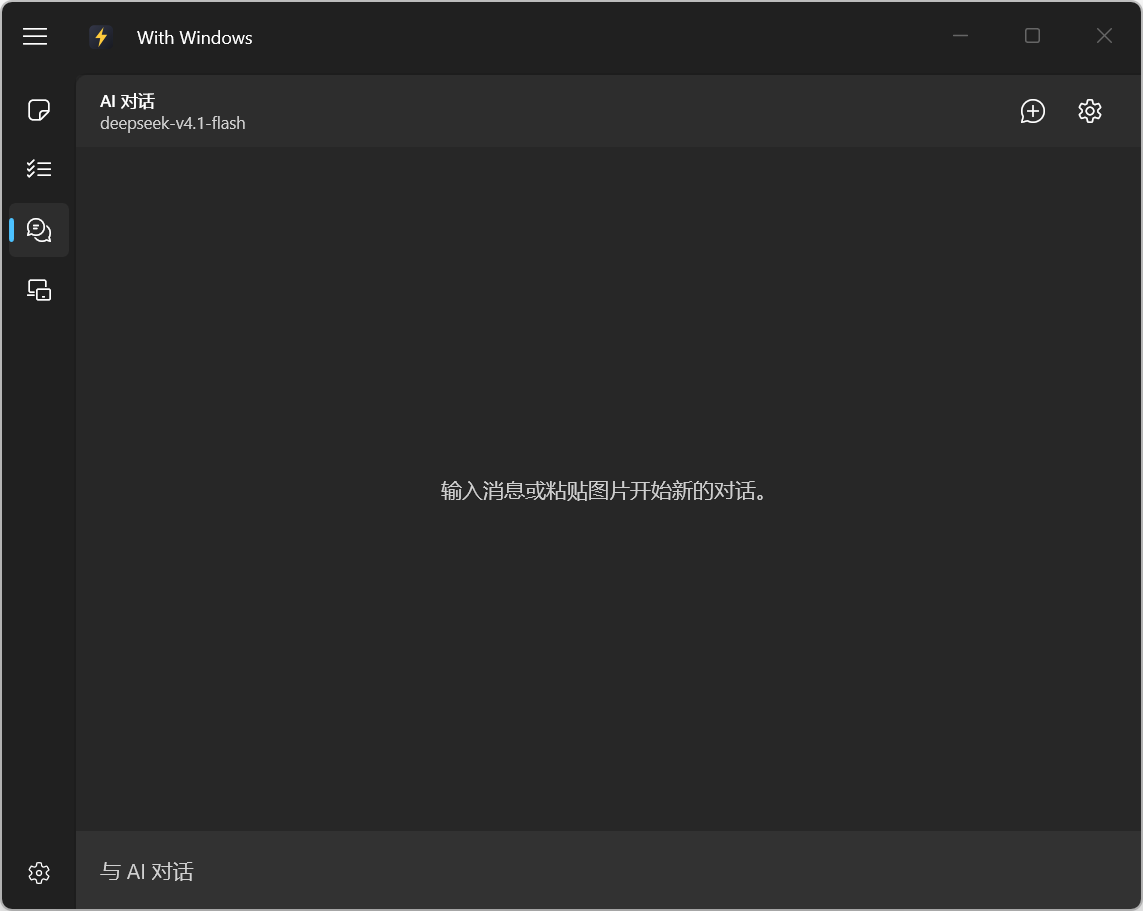
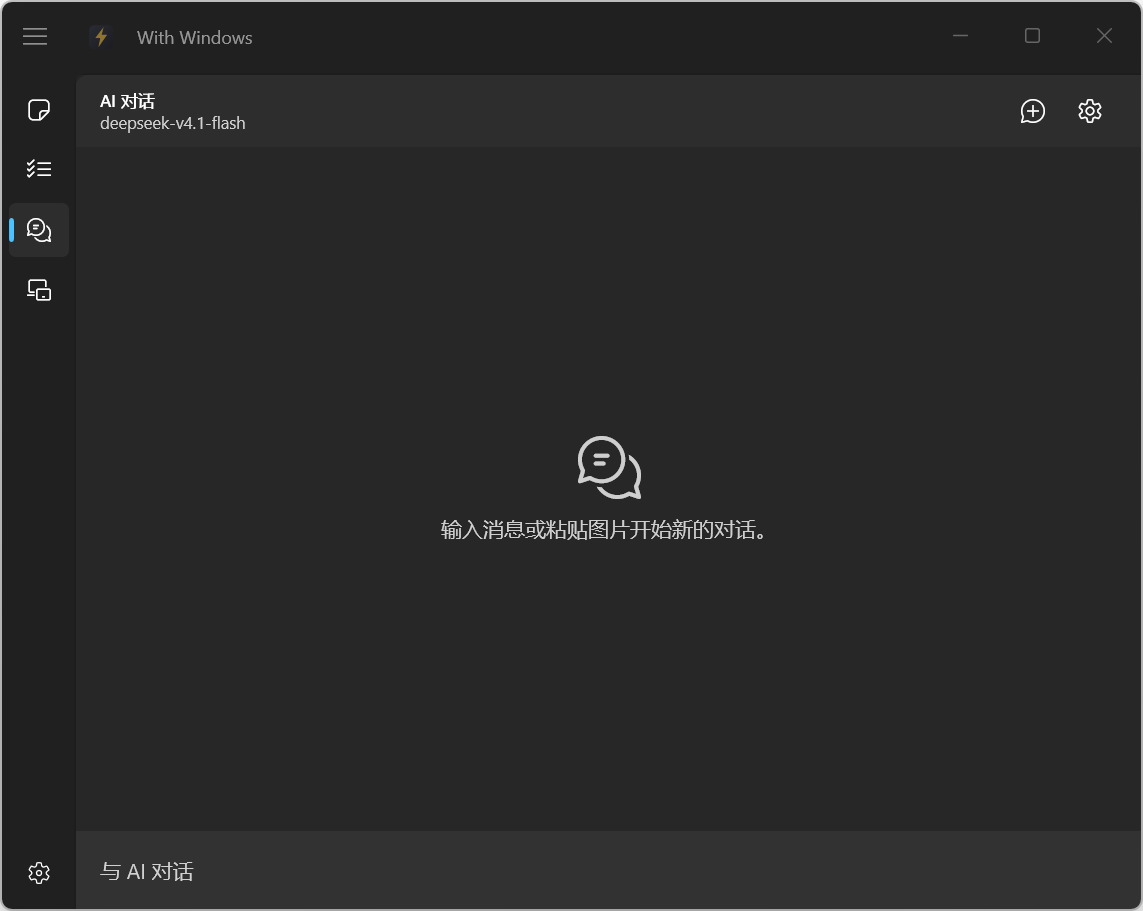
feat(待办): 完善提醒编辑与空状态界面

Changed region(s): [[0.3675, 0.461, 0.6737, 0.6147], [0.1225, 0.0307, 0.2143, 0.0615]]

diff --git a/src/WithWindows.App/Views/ChatPage.xaml b/src/WithWindows.App/Views/ChatPage.xaml
@@ -199,15 +199,25 @@
                 </ListView.ItemContainerStyle>
             </ListView>
 
-            <TextBlock
-                x:Name="ChatEmptyState"
+            <StackPanel
+                x:Name="ChatEmptyStatePanel"
                 Margin="32"
+                MaxWidth="360"
                 HorizontalAlignment="Center"
                 VerticalAlignment="Center"
-                AutomationProperties.AutomationId="ChatEmptyState"
-                Foreground="{ThemeResource TextFillColorSecondaryBrush}"
-                TextAlignment="Center"
-                TextWrapping="Wrap" />
+                Spacing="10">
+                <FontIcon
+                    HorizontalAlignment="Center"
+                    FontSize="42"
+                    Foreground="{ThemeResource TextFillColorSecondaryBrush}"
+                    Glyph="&#xE8F2;" />
+                <TextBlock
+                    x:Name="ChatEmptyState"
+                    AutomationProperties.AutomationId="ChatEmptyState"
+                    Foreground="{ThemeResource TextFillColorSecondaryBrush}"
+                    TextAlignment="Center"
+                    TextWrapping="Wrap" />
+            </StackPanel>
 
             <InfoBar
                 x:Name="ChatErrorBar"

diff --git a/src/WithWindows.App/Views/TodoPage.xaml b/src/WithWindows.App/Views/TodoPage.xaml
@@ -123,12 +123,11 @@
                 Background="Transparent"
                 BorderThickness="0"
                 FontSize="14"
-                FocusVisualMargin="-4"
                 PlaceholderText="添加待办"
                 PreviewKeyDown="OnNewInputKeyDown"
                 TextCompositionEnded="OnTextCompositionEnded"
                 TextCompositionStarted="OnTextCompositionStarted"
-                UseSystemFocusVisuals="True">
+                UseSystemFocusVisuals="False">
                 <TextBox.Resources>
                     <SolidColorBrush x:Key="TextControlBackground" Color="Transparent" />
                     <SolidColorBrush x:Key="TextControlBackgroundPointerOver" Color="Transparent" />

diff --git a/src/WithWindows.App/Controls/TodoReminderDialog.cs b/src/WithWindows.App/Controls/TodoReminderDialog.cs
@@ -23,56 +23,51 @@ public static class TodoReminderDialog
             ?? RoundUpToFiveMinutes(DateTimeOffset.Now.AddHours(1));
         bool hasExisting = item.ReminderAt is not null;
 
-        var enabled = new CheckBox
-        {
-            Content = "启用提醒",
-            IsChecked = hasExisting,
-        };
-        AutomationProperties.SetAutomationId(enabled, "TodoReminderEnabled");
-        AutomationProperties.SetName(enabled, "启用提醒");
-
         var datePicker = new CalendarDatePicker
         {
-            Header = "日期",
             Date = new DateTimeOffset(initial.Date),
-            IsEnabled = hasExisting,
+            Height = 40,
+            MinWidth = 0,
             HorizontalAlignment = HorizontalAlignment.Stretch,
+            VerticalAlignment = VerticalAlignment.Center,
         };
         AutomationProperties.SetAutomationId(datePicker, "TodoReminderDate");
         AutomationProperties.SetName(datePicker, "提醒日期");
 
         var timePicker = new TimePicker
         {
-            Header = "时间",
             ClockIdentifier = "24HourClock",
+            Height = 40,
+            MinWidth = 0,
             SelectedTime = initial.TimeOfDay,
-            IsEnabled = hasExisting,
             HorizontalAlignment = HorizontalAlignment.Stretch,
+            VerticalAlignment = VerticalAlignment.Center,
         };
         AutomationProperties.SetAutomationId(timePicker, "TodoReminderTime");
         AutomationProperties.SetName(timePicker, "提醒时间");
+        // TimePicker 模板把内部 FlyoutButton 顶对齐，外层 Height 不会撑高可见内容。
+        // 用对称内边距把内容框实际撑到与 CalendarDatePicker 相同的 40 DIP。
+        timePicker.Resources["TimePickerHostPadding"] = new Thickness(0, 9, 0, 9);
 
-        enabled.Checked += (_, _) => SetPickersEnabled(isEnabled: true);
-        enabled.Unchecked += (_, _) => SetPickersEnabled(isEnabled: false);
-
-        void SetPickersEnabled(bool isEnabled)
-        {
-            if (datePicker is null || timePicker is null)
-                return;
-
-            datePicker.IsEnabled = isEnabled;
-            timePicker.IsEnabled = isEnabled;
-        }
+        var dateLabel = CreateFieldLabel("日期");
+        var timeLabel = CreateFieldLabel("时间");
 
         var pickerGrid = new Grid
         {
             ColumnSpacing = 12,
-            Margin = new Thickness(0, 8, 0, 0),
+            RowSpacing = 4,
         };
+        pickerGrid.RowDefinitions.Add(new RowDefinition { Height = GridLength.Auto });
+        pickerGrid.RowDefinitions.Add(new RowDefinition { Height = GridLength.Auto });
         pickerGrid.ColumnDefinitions.Add(new ColumnDefinition { Width = new GridLength(1, GridUnitType.Star) });
         pickerGrid.ColumnDefinitions.Add(new ColumnDefinition { Width = new GridLength(1, GridUnitType.Star) });
+        pickerGrid.Children.Add(dateLabel);
+        Grid.SetColumn(timeLabel, 1);
+        pickerGrid.Children.Add(timeLabel);
+        Grid.SetRow(datePicker, 1);
         pickerGrid.Children.Add(datePicker);
         Grid.SetColumn(timePicker, 1);
+        Grid.SetRow(timePicker, 1);
         pickerGrid.Children.Add(timePicker);
 
         var validation = new TextBlock
@@ -90,7 +85,6 @@ public static class TodoReminderDialog
             MinWidth = 420,
             Spacing = 4,
         };
-        content.Children.Add(enabled);
         content.Children.Add(pickerGrid);
 
         var contentScroll = new ScrollViewer
@@ -126,7 +120,7 @@ public static class TodoReminderDialog
         var dialog = new ContentDialog
         {
             XamlRoot = xamlRoot,
-            Title = "设置提醒",
+            Title = hasExisting ? "修改提醒" : "设置提醒",
             Content = contentLayout,
             PrimaryButtonText = "保存",
             SecondaryButtonText = hasExisting ? "移除提醒" : "",
@@ -137,12 +131,6 @@ public static class TodoReminderDialog
         TodoReminderChoice? choice = null;
         dialog.PrimaryButtonClick += (_, args) =>
         {
-            if (enabled.IsChecked != true)
-            {
-                choice = new TodoReminderChoice(Remove: true, At: null);
-                return;
-            }
-
             if (datePicker.Date is not { } date || timePicker.SelectedTime is not { } time)
             {
                 args.Cancel = true;
@@ -182,6 +170,13 @@ public static class TodoReminderDialog
             _ => null,
         };
     }
+
+    private static TextBlock CreateFieldLabel(string text) => new()
+    {
+        Text = text,
+        FontSize = 12,
+        Foreground = (Brush)Application.Current.Resources["TextFillColorSecondaryBrush"],
+    };
 
     private static DateTimeOffset RoundUpToFiveMinutes(DateTimeOffset value)
     {

diff --git a/src/WithWindows.App/Views/ChatPage.xaml.cs b/src/WithWindows.App/Views/ChatPage.xaml.cs
@@ -849,7 +849,7 @@ public sealed partial class ChatPage : Page
             return;
 
         bool empty = Messages.Count == 0;
-        ChatEmptyState.Visibility = empty ? Visibility.Visible : Visibility.Collapsed;
+        ChatEmptyStatePanel.Visibility = empty ? Visibility.Visible : Visibility.Collapsed;
         if (!empty)
             return;
 

diff --git a/docs/agents/ui-baseline.md b/docs/agents/ui-baseline.md
@@ -34,8 +34,11 @@ winapp ui screenshot -a WithWindows
 - 列表与摘要：`TodoList`、`TodoSummary`
 - 状态提示：`TodoReminderBar`、`TodoErrorBar`、`TodoEmptyState`
 - 行操作：`TodoComplete_*`、`TodoReminder_*`、`TodoDelete_*`
+- 提醒对话框：`TodoReminderDate`、`TodoReminderTime`、`TodoReminderValidation`
 
-待办输入栏位于页面底部且高度为 48 DIP。输入框保持透明背景和透明边框，键盘聚焦时显示系统焦点框；按 `Enter` 添加，不显示发送按钮。
+待办输入栏位于页面底部且高度为 48 DIP。输入框保持透明背景、透明边框且不显示焦点边框；按 `Enter` 添加，不显示发送按钮。
+
+提醒对话框直接显示日期与时间选择器，不使用“启用提醒”开关；已有提醒通过次级按钮移除，两个选择器高度均为 40 DIP。
 
 ## AI 对话
 
@@ -44,7 +47,7 @@ winapp ui screenshot -a WithWindows
 - 消息：`ChatMessageList`、`ChatEmptyState`、`ChatErrorBar`
 - 输入与附件：`ChatInput`、`ChatPendingAttachments`、`ChatRemoveAttachmentButton`
 
-输入栏使用主题填充色和透明边框，单行文字垂直居中。`Enter` 发送，`Shift+Enter` 换行，输入法组合期间不发送。
+空状态使用与待办页一致的 42 DIP 字体图标和说明文字。输入栏使用主题填充色和透明边框，单行文字垂直居中。`Enter` 发送，`Shift+Enter` 换行，输入法组合期间不发送。
 
 ## 投影与设置
 

diff --git a/docs/design/2026-10-23-todo-reminders-design.md b/docs/design/2026-10-23-todo-reminders-design.md
@@ -97,10 +97,11 @@
 
 提醒编辑：
 
-- 点击铃铛按钮打开 `ContentDialog`；
-- 使用 `CalendarDatePicker` 和 `TimePicker` 选择本地日期与时间；
+- 点击铃铛按钮直接打开 `ContentDialog`，不增加“启用提醒”开关；
+- 使用同高的 `CalendarDatePicker` 和 `TimePicker` 选择本地日期与时间，字段标签放在控件外；
 - 保存时校验时间必须晚于当前时间；
-- 支持移除已有提醒；
+- 新提醒默认设为当前时间一小时后、向上取整到 5 分钟；
+- 打开已有提醒时预填原时间并允许直接保存修改；已有提醒额外提供“移除提醒”按钮；
 - 对话框必须设置 `XamlRoot`，并使用可访问性标识。
 
 删除：
